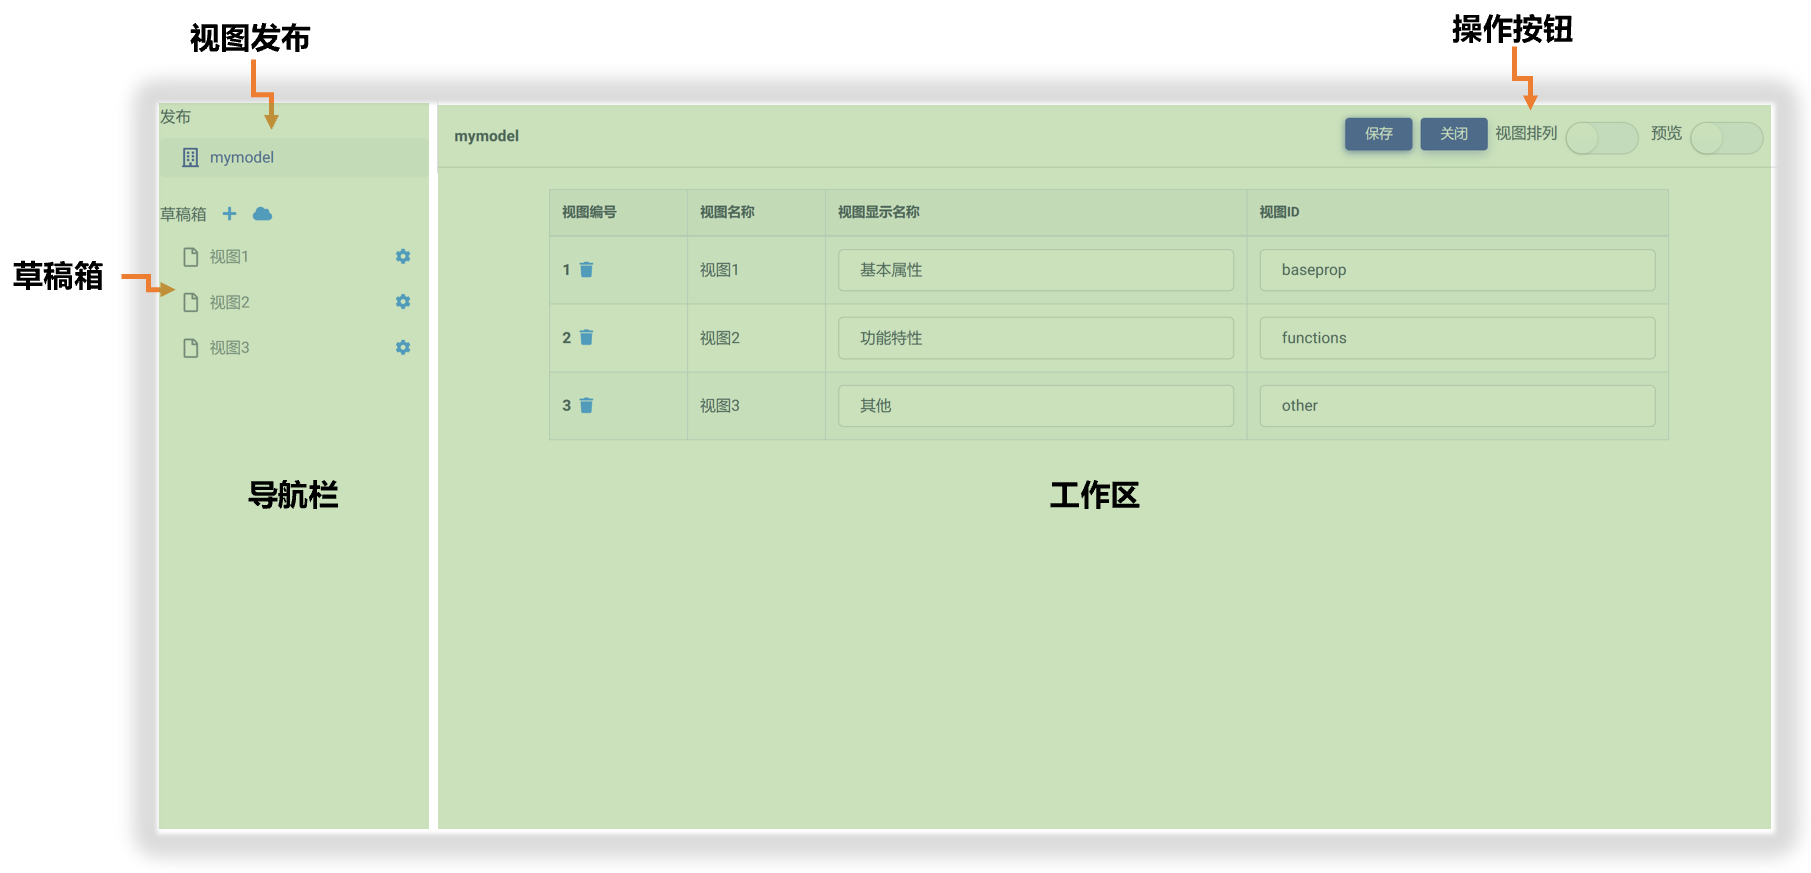
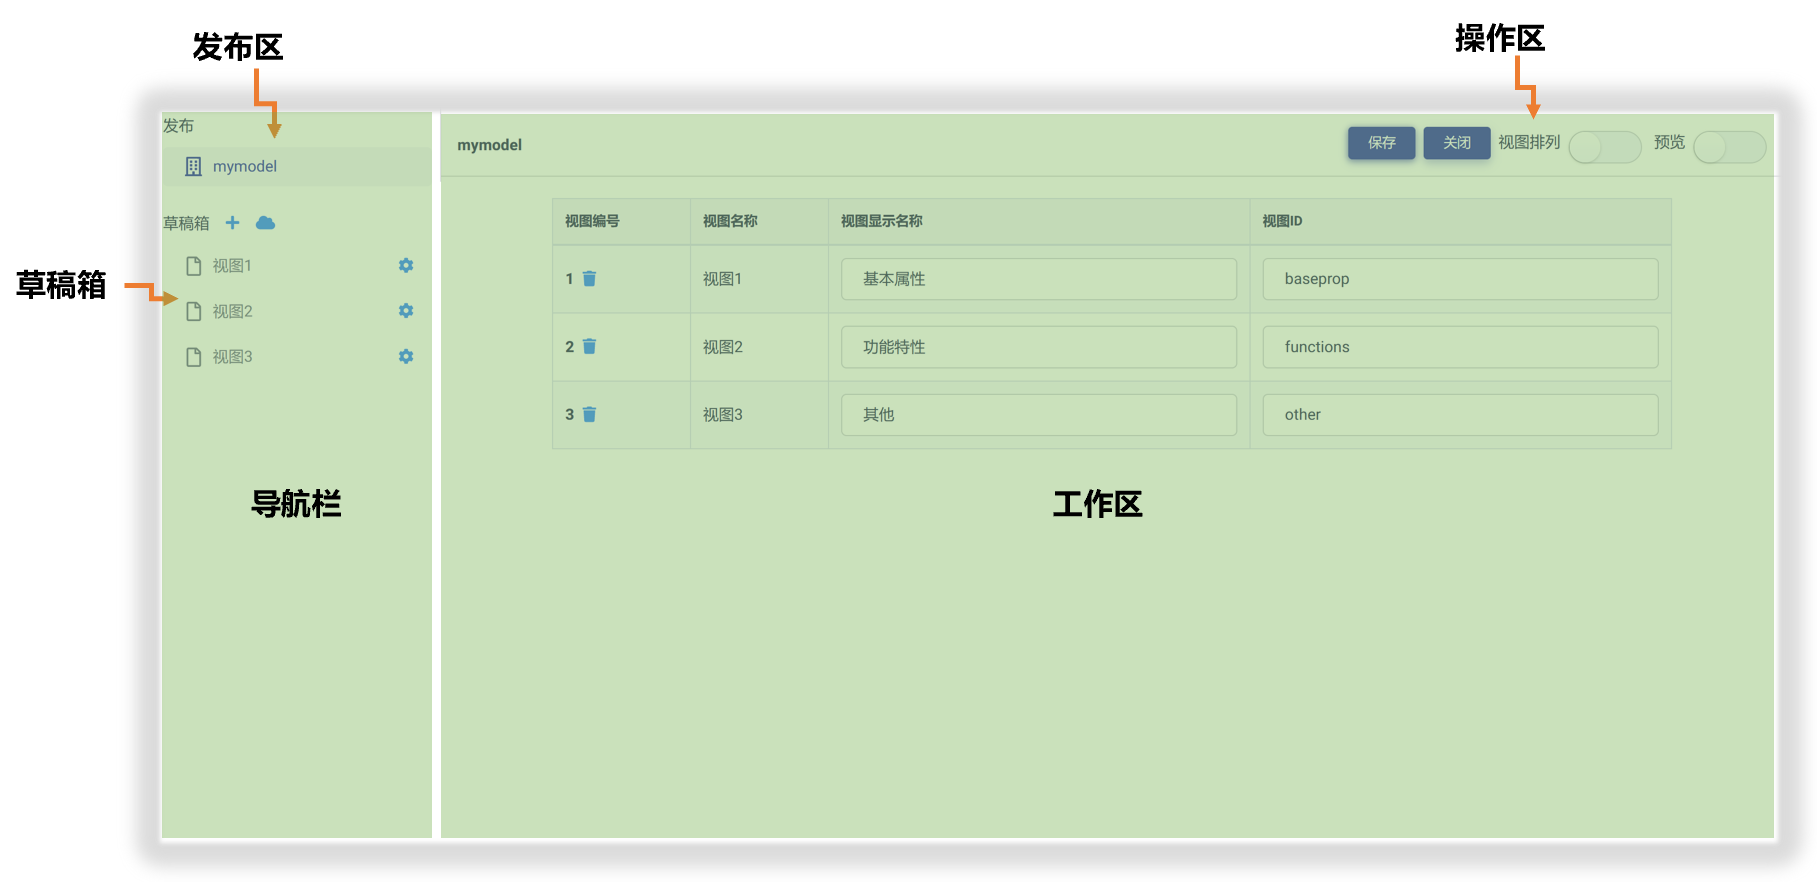
12-6 update

diff --git a/docs/index.html b/docs/index.html
@@ -27,12 +27,12 @@
   <script>
     window.$docsify = {
       
-      loadSidebar: false,
+      loadSidebar: true,
       alias: {
       '/.*/_sidebar.md': '/_sidebar.md',
     },
       subMaxLevel: 3,
-      sidebarDisplayLevel: 2, 
+      sidebarDisplayLevel: 3, 
       loadNavbar: true,
       coverpage: true,
       onlyCover: true,

diff --git a/docs/zh-cn/userguide/os/tools/modelview/modelview.md b/docs/zh-cn/userguide/os/tools/modelview/modelview.md
@@ -1,6 +1,8 @@
 # Matrix模型视图简介
 
-模型视图（Model-View）是Matrix用于实现数据标准化、前端UI设计、数据接口功能的可视化模型。
+模型视图（Model-View）是 Matrix 用于实现数据标准化、前端UI设计、和交互接口功能的标准模型与可视化页面。一般由单个或多个视图页面组成，以满足不同应用场景的需求，如下图所示：
+
+![Matrix.OS](../../../../../media/os/tools/modelview/multiview.gif "多视图页面示例")
 
 ## 模型视图与UI设计
 
@@ -13,27 +15,27 @@
 
 ## 模型视图与数据标准化
 
-模型视图的理念非常契合于面向对象编程的思想，即把对象作为操作数据的基本单元。这样一来，Matrix通过模型视图的重用、拼接、嵌套与组合完美地可视化和标准化了各种数据对象及其操作。**也就是说，模型视图对抽象的数据对象建模进行了可视化。**
+模型视图的理念非常契合于面向对象编程的思想，即把对象作为操作数据的基本单元。这样一来，Matrix 通过模型视图的重用、拼接、嵌套与组合完美地可视化和标准化了各种数据对象及其操作。**也就是说，模型视图对抽象的数据对象建模进行了可视化。**
 
-一个复杂的数据对象可以被分解为多个简单的数据对象加以描述和建模，而整个建模过程只需要简单的“拖放”操作就能完成。用户也可以在Matrix开放平台获取其他用户开发的数据对象，再加以重用，大大提升了工作效率。
+一个复杂的数据对象可以被分解为多个简单的数据对象加以描述和建模，而整个建模过程只需要简单的“拖放”操作就能完成。用户也可以在 Matrix 开放平台获取其他用户开发的数据对象，再加以重用，大大提升了工作效率。
 
 
 ## 模型视图与数据接口
 
-每一个模型视图都被Matrix自动映射为json格式的数据节点树（如下图例子）。
+每一个模型视图都被 Matrix 自动映射为 json 格式的数据节点树（如下图例子）。
 
 ![数据节点树](../../../../../media/os/tools/modelview/json.png "模型视图映射为数据节点树")
 
-这种机制便于各种组件程序代码读取和解析对应节点的数据流并实施操作逻辑。也就是说在Matrix中，任何复杂UI中的单个控件，都存在与其逐一对应的数据节点属性。对UI的任何改动和变化，都会精准的反馈到数据节点树中的对应位置，并被后端代码捕捉。
+这种机制便于各种组件程序代码读取和解析对应节点的数据流并实施操作逻辑。也就是说在 Matrix 中，任何复杂 UI 中的单个控件，都存在与其逐一对应的数据节点属性。对UI的任何改动和变化，都会精准的反馈到数据节点树中的对应位置，并被后端代码捕捉。
 
-## 总结
+## 小结
 
 简单总结一下，一个模型视图具有以下特征和功能：
 
 1. **可拼接性**：一个模型视图能够很方便地与其他模型视图一起配合使用，或者嵌套在另一模型视图内部。一个复杂的模型视图可以拆分成多个简单的模型视图。
 
-2. **可重用性**：每个模型视图都是具有独立功能的模块单元，可以在任意多个UI场景重复使用。
+2. **可重用性**：每个模型视图都是具有独立功能的模块单元，可以在任意多个 UI 场景重复使用。
 
 3. **可维护性**：每个模型视图仅仅包含自身的完整逻辑，容易被理解和维护。
 
-4. **可实体化性**：每个模型视图都可以在Matrix被实体化为模型实例，从抽象模型到实体化对象的转变将革命性的地改变数据标准化方式、采集方式和处理方式。
+4. **可实体化性**：每个模型视图都可以在 Matrix 被实体化为模型实例，从抽象模型到实体化对象的转变将革命性的地改变数据标准化方式、采集方式和处理方式。

diff --git a/docs/zh-cn/userguide/os/tools/modelview/releaseview.md b/docs/zh-cn/userguide/os/tools/modelview/releaseview.md
@@ -1,0 +1,59 @@
+# 发布区
+
+发布区用来管理模型视图的发布页面，主要包括以下功能：
+
+## 编辑页面
+
+进入发布区，在右侧工作区会显示待发布的视图页面列表。该列表包含了由草稿箱添加到发布区的所有视图页面。如下图所示：
+
+![Matrix.OS](../../../../../media/os/tools/modelview/viewlist.png "发布页面列表")
+
+列表中每个视图页面都有各自的编号、名称、显示名、和 ID (键值)。具体而言：
+
+* **编号**：是指视图页面按照添加到发布区的次序被赋予的序号
+* **页面名称**：是指视图页面创建时的命名。
+* **显示名称**：是指视图页面作为 UI 展示给使用者的显示名称。
+* **视图ID**：是指在"数据节点树"文件中唯一标识该视图页面的键值(由字母、数字或下划线组成)，系统会自动分配一个随机键值，但最好由模型视图开发者指定，便于识别和在程序中引用。
+
+通过编辑"显示名称"和"ID"，可以更加方便视图页面的用户交互和数据接口解析。见下图示例：
+
+![Matrix.OS](../../../../../media/os/tools/modelview/editviewlist.gif "编辑页面列表")
+
+## 移除页面
+
+在视图页面列表中，点击页面编号右侧的 <img src="./././././media/logo/deletereleaseview.png" width="15" height="15"> 按钮，即可将该视图页面从发布区移除，如下图所示：
+
+![Matrix.OS](../../../../../media/os/tools/modelview/deletereleaseview.gif "将页面从发布区移除")
+
+**注意：将页面从发布区移除并未删除该页面，页面本体和内容依然保存在草稿箱中，便于编辑和重新添加到发布。**
+
+## 视图排列
+
+视图排列是指调整模型视图中不同页面的先后次序，滑动右上角`操作区`中的`视图排列`滑块，进入"视图排列模式"，即可通过拖放操作完成对页面次序的调整。次序调整完成后，再次滑动滑块即可退出"视图排列模式"。如下图所示：
+
+![Matrix.OS](../../../../../media/os/tools/modelview/arrangeview.gif "视图排列")
+
+## 预览测试
+
+滑动右上角`操作区`中的`预览`滑块，进入"预览模式"，即可逐一测试视图页面用户交互功能和数据反馈机制的正确性，如下图所示：
+
+![Matrix.OS](../../../../../media/os/tools/modelview/previewmodel.gif "进入视图预览模式")
+
+## 查看数据节点树文件
+
+正如在《[模型视图基本概念](zh-cn/userguide/os/tools/modelview/modelview.md)》中所提到的，每一模型视图都被自动映射为 json 格式的**数据节点树**，作为与后端程序代码的数据操作交互接口。后续教程中会详细介绍使用该接口开发 Matrix 云应用的方法。
+
+在视图"预览模式"下，可以实时查看各种用户交互输入情境下，数据节点树文件的响应与更新，以便校核视图页面和控件操作的正确性。
+
+在预览模式下，点击右上角的`预览JSON`按钮，即可实时查看数据节点树文件，如下图所示：
+
+![Matrix.OS](../../../../../media/os/tools/modelview/viewjson.gif "查看数据节点树文件")
+
+在上图例子中，模型视图 "mymodel" 包含了两个视图页面：
+
+* 视图页面1：ID键值设为 **page1**，包含一个单选控件 **"控件1-1"(ID：control1_1)**
+* 视图页面2：ID键值设为 **page2**，包含一个文本输入控件 **"控件2-1"(ID：control2_1)** 和一个时间控件 **"控件2-2"(ID：control2_2)**
+
+可以发现，数据节点树 JSON 文件中的信息完全反映了视图页面设置与控件输入，如下图所示：
+
+![Matrix.OS](../../../../../media/os/tools/modelview/viewjson.png "数据节点树文件示例")

diff --git a/docs/zh-cn/userguide/os/tools/modelview/draftbox.md b/docs/zh-cn/userguide/os/tools/modelview/draftbox.md
@@ -1,0 +1,50 @@
+# 草稿箱
+
+草稿箱主要用于创建、存储、设计、编辑与管理不同视图页面及其不同版本。
+
+## 创建页面草稿
+
+点击视图管理器左侧导航栏`草稿箱`旁边的 <img src="./././././media/logo/plus.png" width="15" height="15"> 按钮，即可在草稿箱中创建一个新视图页面，将其命名并保存。如下图所示：
+
+![Matrix.OS](../../../../../media/os/tools/modelview/creatview.gif "创建视图页面草稿")
+
+## 删除页面草稿
+
+在左侧导航栏草稿箱中，点击视图页面右侧的 <img src="./././././media/logo/gear.png" width="15" height="15"> 按钮，在弹出菜单中选择`删除`，点击`确定`即可删除该视图页面。如下图所示：
+
+![Matrix.OS](../../../../../media/os/tools/modelview/deletedraftview.gif "删除视图页面草稿")
+
+## 复制页面草稿
+
+在左侧导航栏草稿箱中，点击视图页面右侧的 <img src="./././././media/logo/gear.png" width="15" height="15"> 按钮，在弹出菜单中选择`复制`，即可制作该视图页面的副本。如下图所示：
+
+![Matrix.OS](../../../../../media/os/tools/modelview/copyview.gif "复制视图页面草稿")
+
+## 导入页面到草稿箱
+
+Matrix模型视图管理器提供了`云OS导入`功能，便于将既有模型视图中的视图页面导入重用到另一模型视图中，从而大大提升灵活性与效率。具体步骤举例说明如下：
+
+我们首先在云OS上创建一个新模型视图，名为"new"，如下图所示：
+
+![Matrix.OS](../../../../../media/os/tools/modelview/importview1.gif "导入页面到草稿箱 - 1")
+
+在前面教程中，我们已经在云桌面创建好了一个模型视图名为"mymodel"。在这里，我们将演示如何将"mymodel"中的视图页面导入到"new"中来。
+
+点击"new"，打开模型视图管理器，点击左侧导航栏`草稿箱`旁边的 <img src="./././././media/logo/cloud.png" width="15" height="15"> 按钮，则打开视图页面云导入对话框。
+
+根据对话框导引，从云桌面选中要导入的模型视图"mymodel"，进而选择所要导入的页面（点选页面前的复选框即可），最后点击`导入`按钮，则成功地将"mymodel"中选定的视图页面导入到"new"中的草稿箱了。如下图所示：
+
+![Matrix.OS](../../../../../media/os/tools/modelview/importview2.gif "导入页面到草稿箱 - 2")
+
+## 添加到发布
+
+在草稿箱中，完成对视图页面草稿的编辑并定稿后，可以将其"添加到发布"，也就是将视图页面从`草稿箱`正式添加到`发布区`中。
+
+视图页面被添加到发布区后，并不影响在草稿箱继续对其进行编辑和版本更新。一个视图页面的不同版本可以被反复添加到发布区，从而大大提升草稿箱使用效率和灵活性，节省工作时间，满足不同需求。
+
+在左侧导航栏草稿箱中，点击视图页面右侧的 <img src="./././././media/logo/gear.png" width="15" height="15"> 按钮，在弹出菜单中选择`添加到发布`，即可完成添加工作。
+
+在下图演示中，我们将页面"view4"添加到发布。然后进入`发布区`，即可在右侧工作区的视图页面列表中发现刚刚添加的"view4"。
+
+![Matrix.OS](../../../../../media/os/tools/modelview/addtorelease.gif "添加草稿到发布区")
+

diff --git a/docs/zh-cn/userguide/os/tools/terminals/terminal.md b/docs/zh-cn/userguide/os/tools/terminals/terminal.md
@@ -1,11 +1,11 @@
-# 终端Terminal
+# 终端 (Terminal)
 
 Matrix.OS是基于Linux构建的虚拟服务器环境，初学者可以使用图形化的[文件管理器页面(File Explorer)](zh-cn/userguide/os/tools/fileexplorer.md)来访问和管理系统组件和服务。
 
-相对于文件管理器，我们更建议您使用命令行界面(CLI)来实现更多控制和更快操作。通过在 CLI 中输入命令，可以在几秒钟内完成需要在图形化页面上执行多个步骤的任务。
+相对于文件管理器，我们更建议您使用命令行界面 (CLI) 来实现更多控制和更快操作。通过在 CLI 中输入命令，可以在几秒钟内完成需要在图形化页面上执行多个步骤的任务。
 
-用户可以通过网络终端(Web Terminal)或者本地终端(Local Terminal)实现对Matrix.OS的文件管理、安装包、配置云端组件开发与编译环境、运行云端代码和程序组件等。
+用户可以通过网络终端 (Web Terminal) 或者本地终端 (Local Terminal) 实现对 Matrix.OS 的文件管理、安装包、配置云端组件开发与编译环境、运行云端代码和程序组件等。
 
-下面教程将分别介绍使用不同终端连接和管理Matrix.OS虚拟环境的常用命令操作和方法。
+下面教程将分别介绍使用不同终端连接和管理 Matrix.OS 的常用命令操作和方法。
 
 

diff --git a/docs/_sidebar.md b/docs/_sidebar.md
@@ -22,12 +22,11 @@
         - [Remote - SSH终端](zh-cn/userguide/os/tools/terminals/remotessh.md)
       - 模型视图管理器
         - [什么是模型视图](zh-cn/userguide/os/tools/modelview/modelview.md)
-        - [视图管理器简介](zh-cn/userguide/os/tools/modelview/layout.md)
-        - [草稿管理](zh-cn/userguide/os/tools/modelview/draft.md)
-        - [页面编辑](zh-cn/userguide/modelview/control.md)
-        - [预览视图](zh-cn/userguide/modelview/control.md)
-        - [查看数据节点树](zh-cn/userguide/modelview/control.md)
-        - [添加到发布](zh-cn/userguide/modelview/control.md)
+        - [视图管理器简介](zh-cn/userguide/os/tools/modelview/studio.md)
+        - [草稿箱](zh-cn/userguide/os/tools/modelview/draftbox.md)
+        - [发布区](zh-cn/userguide/os/tools/modelview/releaseview.md)
+        - [视图页面编辑](zh-cn/userguide/modelview/control.md)
+        
         - 控件集
           - [概述](zh-cn/userguide/os/tools/modelview/control.md)
           - 控件类型

diff --git a/docs/zh-cn/userguide/os/tools/modelview/studio.md b/docs/zh-cn/userguide/os/tools/modelview/studio.md
@@ -1,0 +1,34 @@
+# 模型视图管理器简介
+
+模型视图管理器 (Model View Studio) 是用来创建、编辑、管理、发布 Matrix 模型视图的工作平台。
+
+在 Matrix.OS 上单击任一模型视图，即可打开模型视图管理器。如下图所示：
+
+![Matrix.OS](../../../../../media/os/tools/modelview/openview.gif "打开视图管理器")
+
+管理器基本布局如下图所示：
+
+![Matrix.OS](../../../../../media/os/tools/modelview/mvlayout.png "模型视图管理器布局")
+
+其中：
+
+* **发布区**：视图页面发布版本管理
+* **草稿箱**：视图页面草稿管理
+* **工作区**：视图页面设计成果展示、控件拖放与组装、页面测试等
+* **操作区**：常用操作与功能按钮
+
+简单交互示例如下图：
+
+![Matrix.OS](../../../../../media/os/tools/modelview/mvlayout.gif "模型视图管理器交互操作")
+
+
+
+
+
+
+
+
+
+
+
+

diff --git a/docs/zh-cn/userguide/os/tools/modelview/control.md b/docs/zh-cn/userguide/os/tools/modelview/control.md
@@ -1,6 +1,6 @@
 # 控件
 
-控件（control）是一种模型视图的基本用户界面元素，例如选择按钮或文本框等，其显示的信息排列可由用户改变。在模型视图中，控件为给定数据的直接操作（direct manipulation）提供**单独的互动点**，是一种基本的可视构件块，控制着Matrix程序组件处理的所有数据以及关于这些数据的交互操作。
+控件（control）是一种模型视图的基本用户界面元素，例如选择按钮或文本框等，其显示的信息排列可由用户改变。在模型视图中，控件为给定数据的直接操作（direct manipulation）提供**单独的互动点**，是一种基本的可视构件块，控制着Matrix 程序组件处理的所有数据以及关于这些数据的交互操作。
 
 ## Matrix模型视图控件集
 

diff --git a/docs/zh-cn/userguide/os/com/new.md b/docs/zh-cn/userguide/os/com/new.md
@@ -18,7 +18,7 @@
 
 ## 创建模型视图
 
-模型视图（Model-View）是Matrix用于实现数据标准化、前端UI设计、数据接口功能的可视化模型。关于模型视图的详细介绍和使用请参考后续教程《模型视图管理器》相关章节。
+模型视图（Model-View）是 Matrix 用于实现数据标准化、前端UI设计、和交互接口功能的标准模型与可视化页面。关于模型视图的详细介绍和使用请参考后续教程《模型视图管理器》相关章节。
 
 在Matrix.OS上，点击左侧导航栏`开始`按钮下的`创建模型视图`(或右键单击云桌面空白处选择`创建模型视图`)，如下图所示：
 

diff --git a/docs/zh-cn/userguide/os/tools/terminals/localt.md b/docs/zh-cn/userguide/os/tools/terminals/localt.md
@@ -1,5 +1,5 @@
 
-# 本地终端(Local Terminal)
+# 本地终端 (Local Terminal)
 
 相比使用网络终端，我们更推荐您使用个人计算机上的本地终端工具，来连接 Matrix.OS 并且更快捷高效完成全部系统管理操作。
 

diff --git a/docs/zh-cn/userguide/os/tools/terminals/webt.md b/docs/zh-cn/userguide/os/tools/terminals/webt.md
@@ -1,5 +1,5 @@
 
-# 网络终端(Web Terminal)
+# 网络终端 (Web Terminal)
 
 ## 开启网络终端
 
